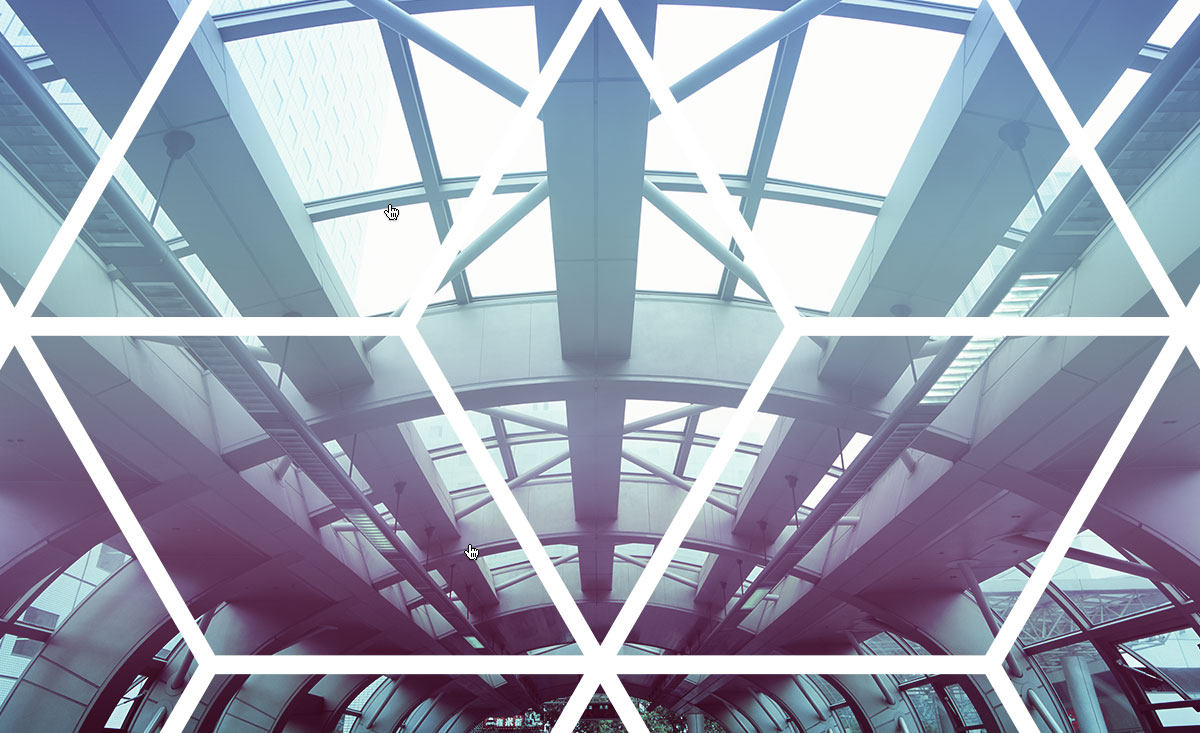
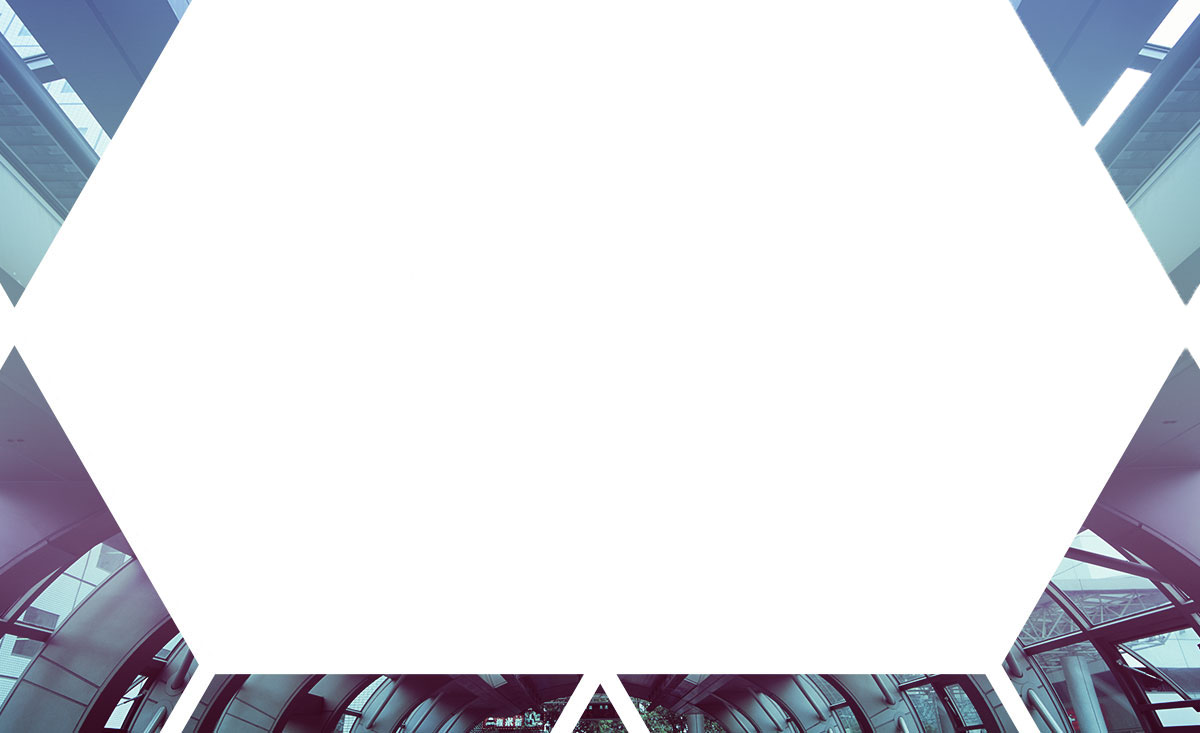
Refactor home page.

diff --git a/app/assets/javascripts/main.js b/app/assets/javascripts/main.js
@@ -7,7 +7,7 @@ window.onload = function () {
         btns_top_offset = 336;
 
 
-    var path_attrs = { stroke: '#f00', cursor: 'pointer', fill: '#f00', 'fill-opacity': 0.1 };
+    var path_attrs = { stroke: '', cursor: 'pointer', fill: '#000', 'fill-opacity': 0.01, 'stroke-width': 0 };
     var text_attrs = { font: '32px HighwaySansProBold', fill: '#ea675b', 'fill-opacity': 1, stroke: 0 };
     var img_attrs = {  };
 
@@ -144,7 +144,14 @@ window.onload = function () {
     var left_bottom_img = paper.image("/assets/home-menu-sprites/tech_service.png", padding_left, btns_top_offset, 553, btn_height).attr(img_attrs);
     var right_top_img = paper.image("/assets/home-menu-sprites/soft.png", padding_left*2 + btn_offset + btn_width + 3, 0, 553, btn_height).attr(img_attrs);
     var right_bottom_img = paper.image("/assets/home-menu-sprites/medicine.png", padding_left*2 + btn_offset + btn_width + 3, btns_top_offset, 553, btn_height).attr(img_attrs);
-    var center_img = paper.image("/assets/home-menu-sprites/map.png", padding_left*2 + btn_offset + btn_width + 3, btns_top_offset, 553, btn_height).attr(img_attrs);
+    var center_img = paper.image("/assets/home-menu-sprites/map.png", padding_left + btn_width + 15, 10 , 372, 638).attr(img_attrs);
+
+
+    var left_top_img_hover = paper.image("/assets/home-menu-sprites/engineering_hover.png", padding_left, 0, 553, btn_height).attr(img_attrs).hide();
+    var left_bottom_img_hover = paper.image("/assets/home-menu-sprites/tech_service_hover.png", padding_left, btns_top_offset, 553, btn_height).attr(img_attrs).hide();
+    var right_top_img_hover = paper.image("/assets/home-menu-sprites/soft_hover.png", padding_left * 2 + btn_offset + btn_width + 3, 0, 553, btn_height).attr(img_attrs).hide();
+    var right_bottom_img_hover = paper.image("/assets/home-menu-sprites/medicine_hover.png", padding_left * 2 + btn_offset + btn_width + 3, btns_top_offset, 553, btn_height).attr(img_attrs).hide();
+    var center_img_hover = paper.image("/assets/home-menu-sprites/map_hover.png", padding_left + btn_width + 15, 10, 372, 638).attr(img_attrs).hide();
 
 //    var left_top_txt = paper.text(180, 150, "ИНЖЕНЕРНЫЕ\nСИСТЕМЫ").attr(text_attrs).attr({ 'text-anchor': 'start' });
 //    var left_bottom_txt = paper.text(180, 500, "ЭКСПЛУАТАЦИЯ\nИ ТО ОБЪЕКТОВ").attr(text_attrs).attr({ 'text-anchor': 'start' });
@@ -152,11 +159,11 @@ window.onload = function () {
 //    var right_bottom_txt = paper.text(780, 500, "ОБЪЕКТЫ\nМЕДИЦИНЫ").attr(text_attrs).attr({ 'text-anchor': 'start' });
 //    var center_txt = paper.text(600, 320, "КАРТА\nОБЪЕКТОВ").attr(text_attrs).attr({ 'text-anchor': 'middle' });
 
-    var left_top_path = paper.path(left_top_coords).attr(path_attrs).attr({href: '/facilities'});
-    var left_bottom_path = paper.path(left_bottom_coords).attr(path_attrs).attr({href: '/facilities'});
-    var right_top_path = paper.path(right_top_coords).attr(path_attrs).attr({href: '/facilities'});
-    var right_bottom_path = paper.path(right_bottom_coords).attr(path_attrs).attr({href: '/facilities'});
-    var center_path = paper.path(center_coords).attr(path_attrs).attr({href: '/facilities'});
+    var left_top_path = paper.path(left_top_coords).attr(path_attrs).attr({title: 'Инженерные системы', href: '/facilities/engineering_systems'});
+    var left_bottom_path = paper.path(left_bottom_coords).attr(path_attrs).attr({title: 'Эксплуатация и ТО объектов', href: '/facilities/ekspluatacia_to_objectov'});
+    var right_top_path = paper.path(right_top_coords).attr(path_attrs).attr({title: 'Программно-технические комплексы', href: '/facilities/programmno_tehnicheskie_kompleksi'});
+    var right_bottom_path = paper.path(right_bottom_coords).attr(path_attrs).attr({title: 'Объекты медицины', href: '/facilities/objecti_mediciny'});
+    var center_path = paper.path(center_coords).attr(path_attrs).attr({title: 'Карта объектов', href: '/facilities'});
 
 
 
@@ -164,56 +171,47 @@ window.onload = function () {
     function default_btn_styles(item){
         item.hide()
     };
-    function default_txt_styles(item){
-        item.attr(text_attrs);
-    };
 
     function hover_btn_styles(item){
         item.show()
     };
-    function hover_txt_styles(item){
-        item.attr({ fill: '#fff', 'fill-opacity': 1 });
-    };
 
 
-    var path_hover = function(img, txt){
+
+    var path_hover = function(img){
         if(img)
             hover_btn_styles(img);
-        if(txt)
-            hover_txt_styles(txt);
     };
-    var path_unhover = function(img, txt){
+    var path_unhover = function(img){
         if(img)
             default_btn_styles(img);
-        if(txt)
-            default_txt_styles(txt);
     };
 
 
-//    left_top_path.hover(
-//        function(){path_hover(null, left_top_txt)},
-//        function(){path_unhover(null, left_top_txt)}
-//    );
-//
-//    left_bottom_path.hover(
-//        function(){path_hover(left_bottom_img, left_bottom_txt)},
-//        function(){path_unhover(left_bottom_img, left_bottom_txt)}
-//    );
-//
-//    right_top_path.hover(
-//        function(){path_hover(right_top_img, right_top_txt)},
-//        function(){path_unhover(right_top_img, right_top_txt)}
-//    );
-//
-//    right_bottom_path.hover(
-//        function(){path_hover(null, right_bottom_txt)},
-//        function(){path_unhover(null, right_bottom_txt)}
-//    );
-//
-//    center_path.hover(
-//        function(){path_hover(null, center_txt)},
-//        function(){path_unhover(null, center_txt)}
-//    );
+    left_top_path.hover(
+        function(){path_hover(left_top_img_hover)},
+        function(){path_unhover(left_top_img_hover)}
+    );
+
+    left_bottom_path.hover(
+        function(){path_hover(left_bottom_img_hover)},
+        function(){path_unhover(left_bottom_img_hover)}
+    );
+
+    right_top_path.hover(
+        function(){path_hover(right_top_img_hover)},
+        function(){path_unhover(right_top_img_hover)}
+    );
+
+    right_bottom_path.hover(
+        function(){path_hover(right_bottom_img_hover)},
+        function(){path_unhover(right_bottom_img_hover)}
+    );
+
+    center_path.hover(
+        function(){path_hover(center_img_hover)},
+        function(){path_unhover(center_img_hover)}
+    );
 
     left_top_path.click(function(){ window.location = this.attrs.href; });
     left_bottom_path.click(function(){ window.location = this.attrs.href; });

diff --git a/app/assets/stylesheets/app/partials/_grid.scss b/app/assets/stylesheets/app/partials/_grid.scss
@@ -8,7 +8,9 @@
   margin: 0 auto;
   width: $container-width;
   padding: $gutter/3 $gutter;
-  background: rgba(255,0,0,0.1);
+
+  // debug container background
+  //background: rgba(255,0,0,0.1);
 }
 
 .cols{ padding: 0 $strap-gutter; }

diff --git a/app/assets/stylesheets/app/partials/_others.scss b/app/assets/stylesheets/app/partials/_others.scss
@@ -1,8 +1,13 @@
 #main{
   margin-left: -$gutter;
+  position: relative;
+  width: 1200px;
+
+  img{ position: absolute; top: 0; left: 0; z-index: -1;}
 }
 
 $anim_sec: 0.1s;
+
 .invisible{
   opacity: 0;
 
